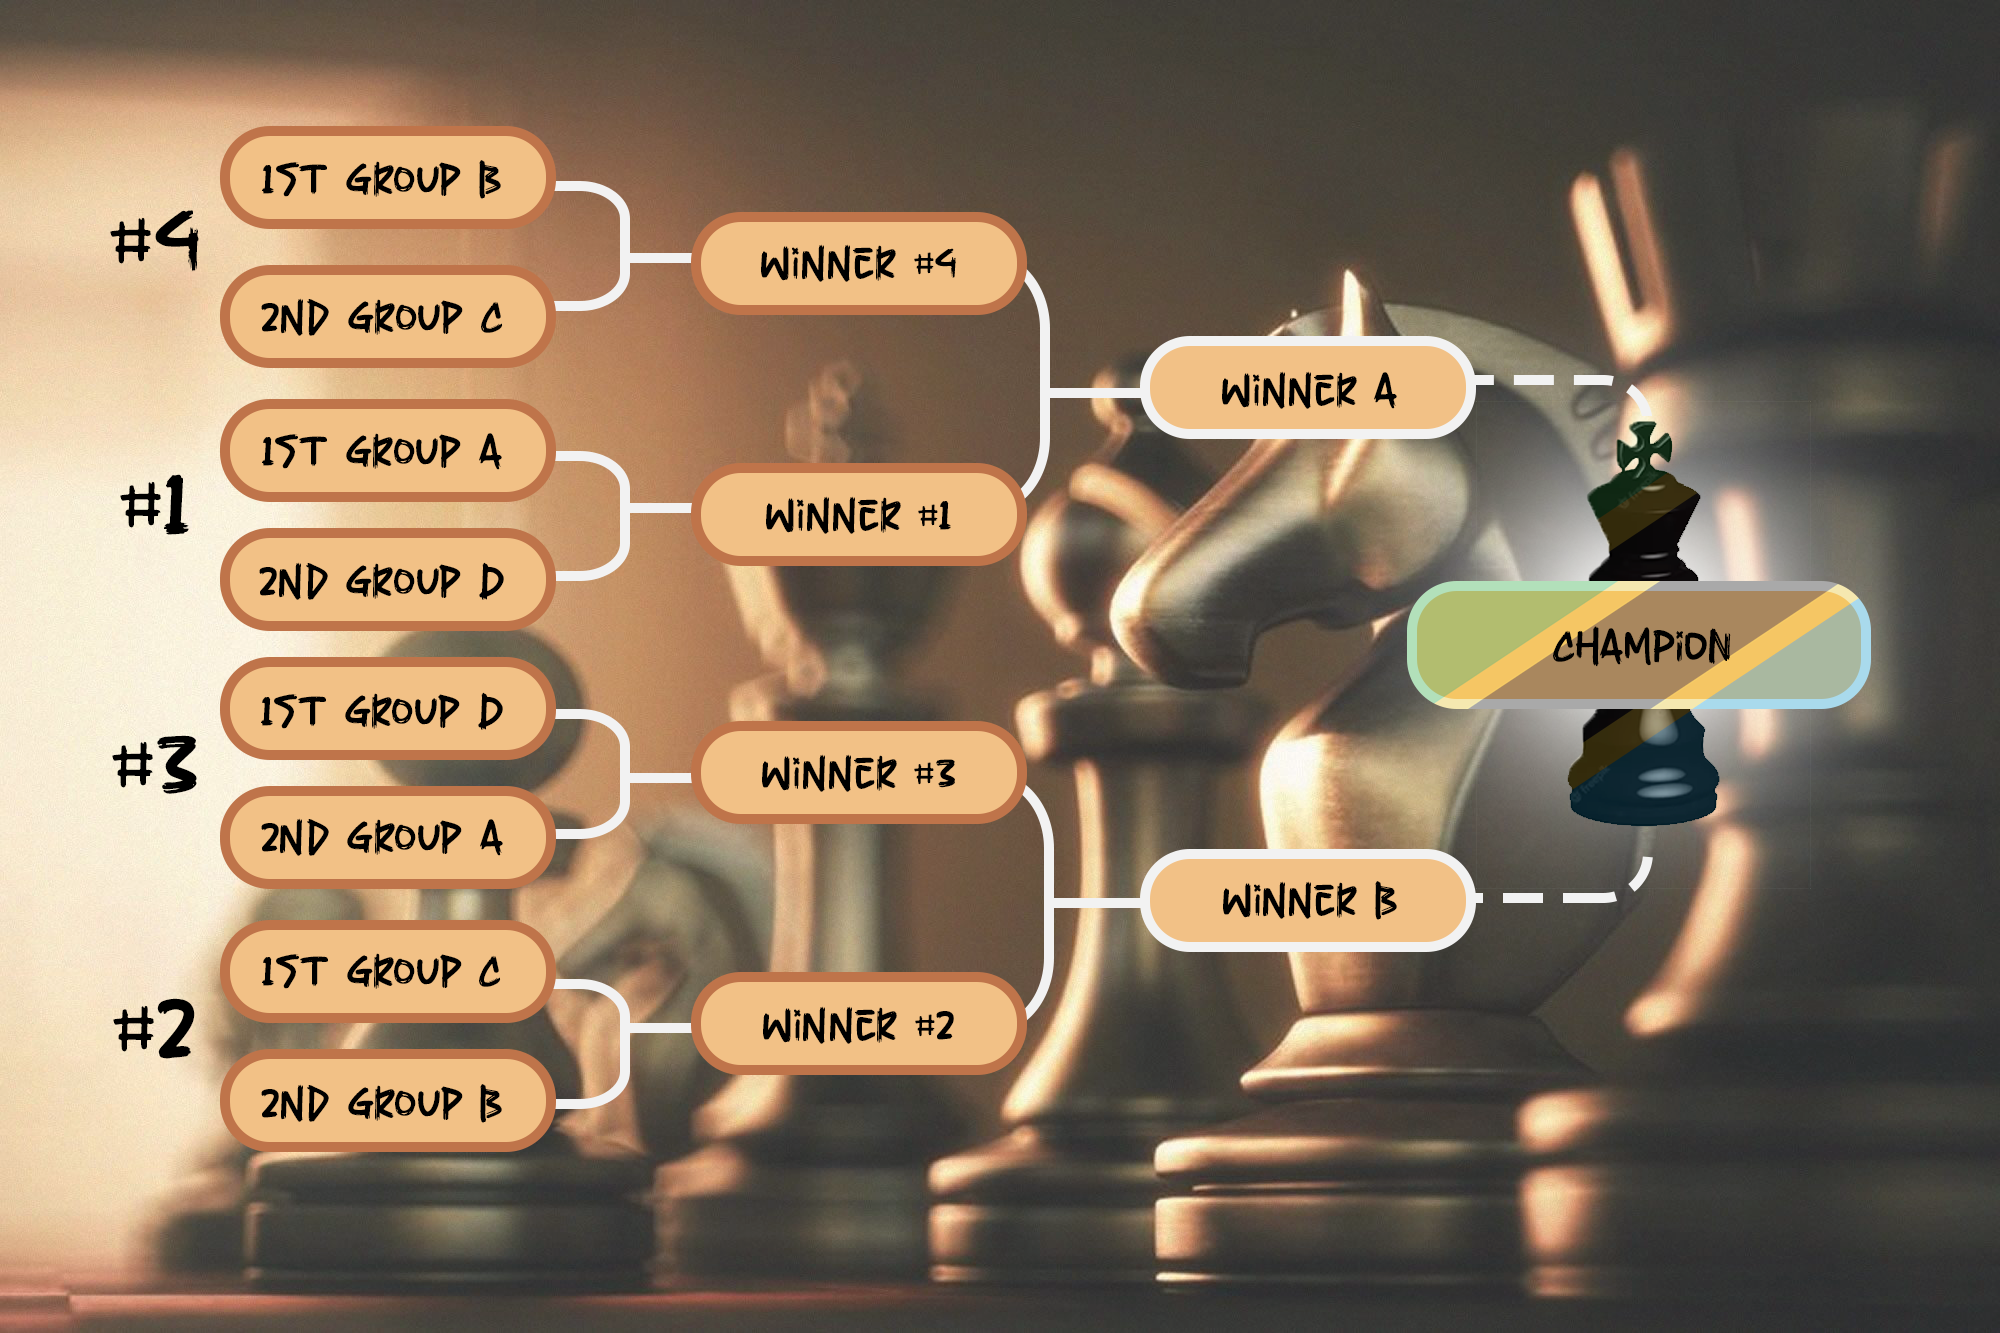
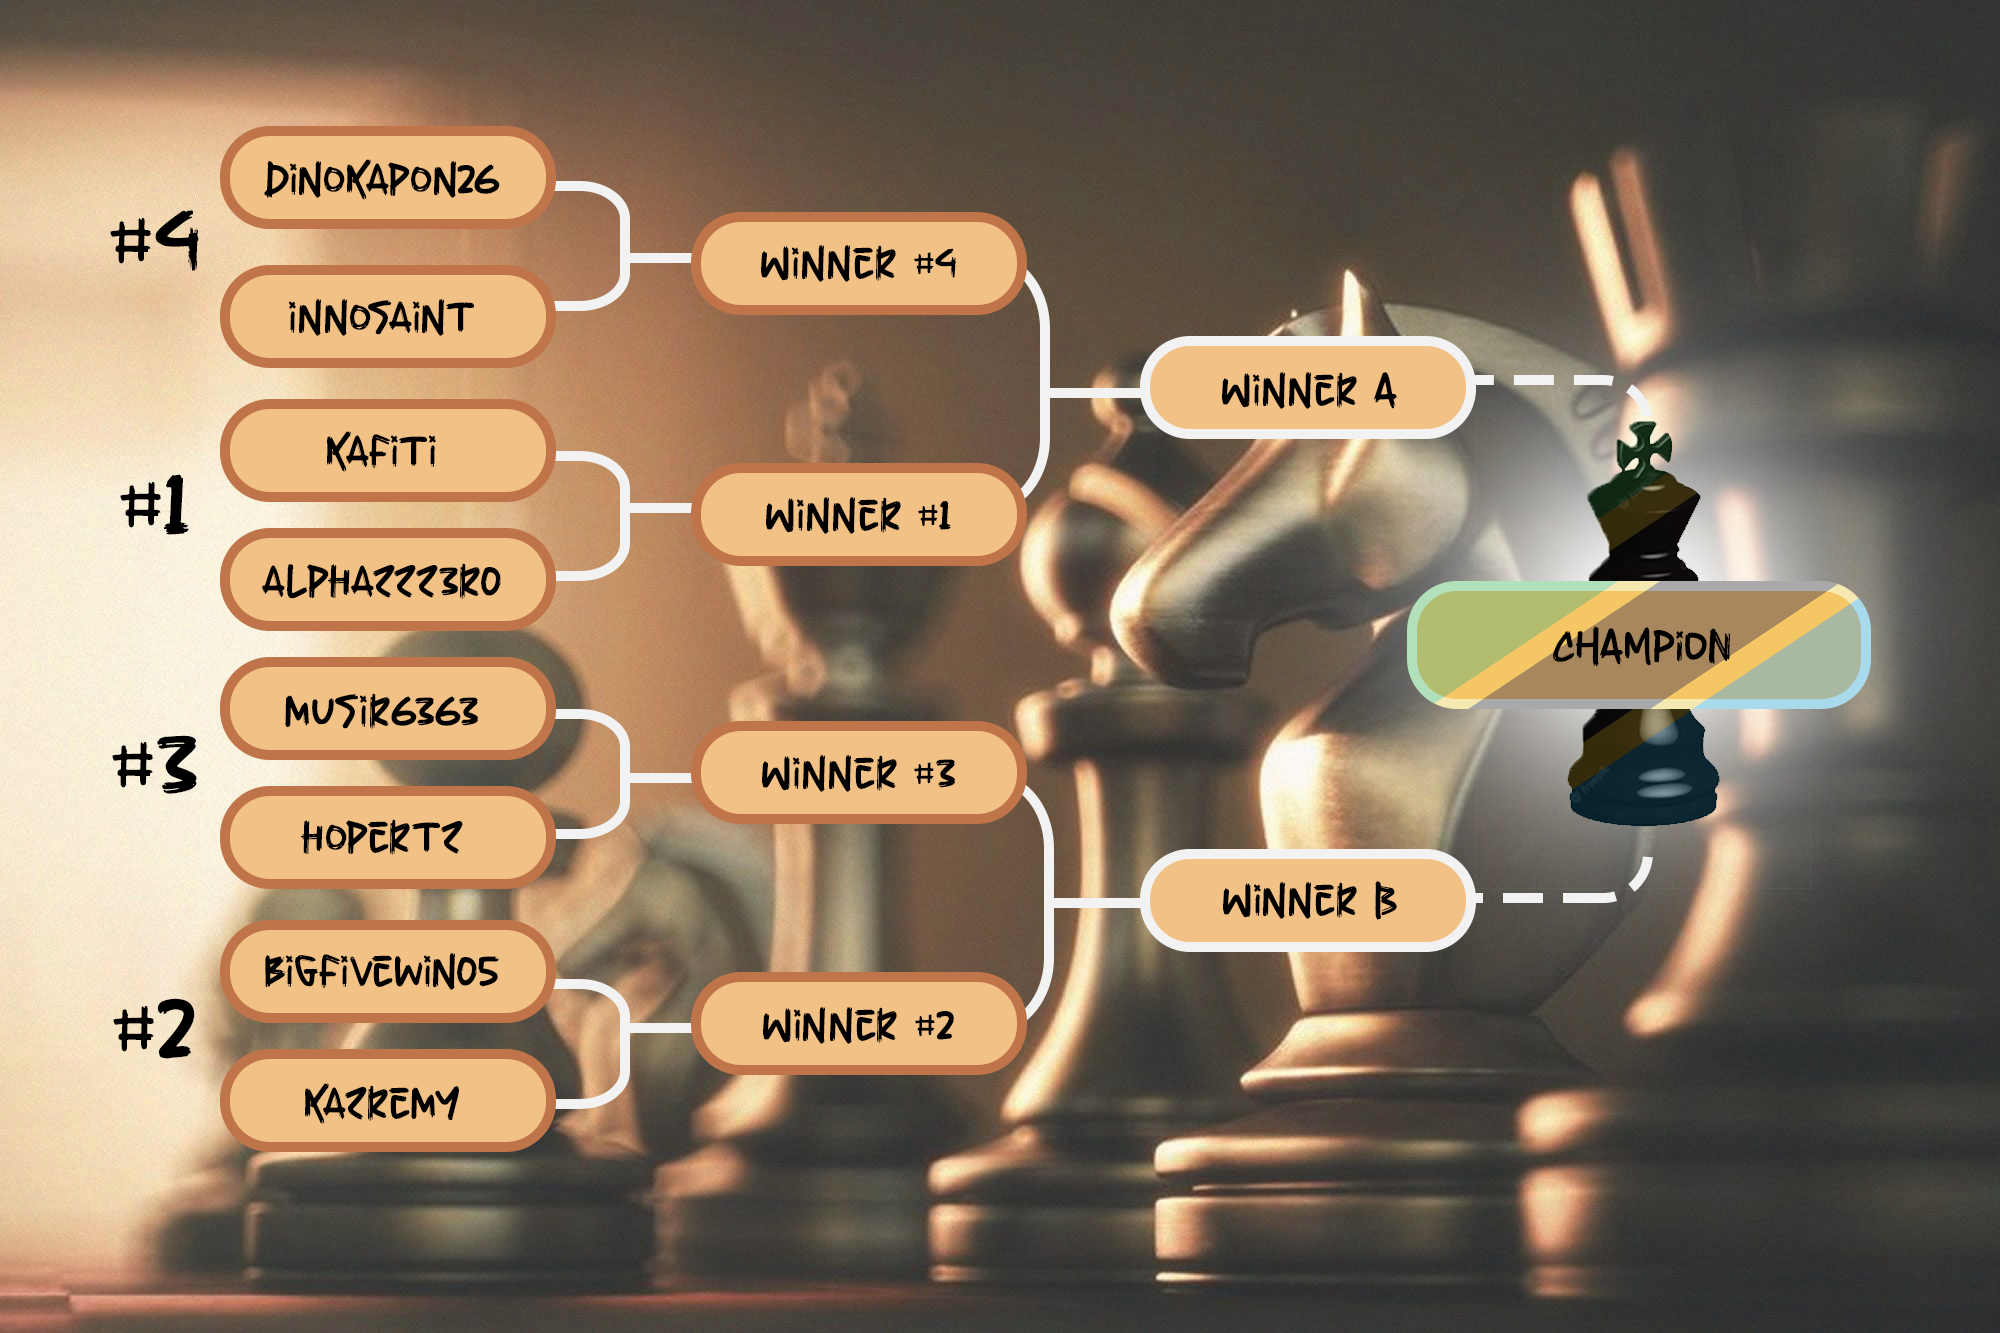
Update meta tag content

diff --git a/src/components/league/Table.jsx b/src/components/league/Table.jsx
@@ -21,41 +21,41 @@ const Table = () => {
                             <li class="table-row1">
                                 <div class="col col-1">1.</div>
                                 <div class="col col-2">kafiti</div>
-                                <div class="col col-3">5</div>
-                                <div class="col col-4">5</div>
+                                <div class="col col-3">6</div>
+                                <div class="col col-4">6</div>
                                 <div class="col col-5">0</div>
                                 <div class="col col-6">0</div>
-                                <div class="col col-7">10</div>
+                                <div class="col col-7">12</div>
                             </li>
 
                             <li class="table-row1">
                                 <div class="col col-1">2.</div>
                                 <div class="col col-2">hopertz</div>
-                                <div class="col col-3">5</div>
+                                <div class="col col-3">6</div>
                                 <div class="col col-4">3</div>
                                 <div class="col col-5">0</div>
-                                <div class="col col-6">2</div>
+                                <div class="col col-6">3</div>
                                 <div class="col col-7">6</div>
                             </li>
 
                             <li class="table-row">
                                 <div class="col col-1">3.</div>
                                 <div class="col col-2">tanzania-student</div>
-                                <div class="col col-3">5</div>
+                                <div class="col col-3">6</div>
                                 <div class="col col-4">1</div>
                                 <div class="col col-5">0</div>
-                                <div class="col col-6">4</div>
+                                <div class="col col-6">5</div>
                                 <div class="col col-7">2</div>
                             </li>
 
                             <li class="table-row">
                                 <div class="col col-1">4.</div>
                                 <div class="col col-2">klaus_gudy</div>
-                                <div class="col col-3">5</div>
-                                <div class="col col-4">0</div>
+                                <div class="col col-3">6</div>
+                                <div class="col col-4">1</div>
                                 <div class="col col-5">0</div>
                                 <div class="col col-6">5</div>
-                                <div class="col col-7">0</div>
+                                <div class="col col-7">2</div>
                             </li>
                         </ul>
 
@@ -74,40 +74,40 @@ const Table = () => {
                             <li class="table-row1">
                                 <div class="col col-1">1.</div>
                                 <div class="col col-2">dinokapon26</div>
-                                <div class="col col-3">5</div>
-                                <div class="col col-4">4</div>
+                                <div class="col col-3">6</div>
+                                <div class="col col-4">5</div>
                                 <div class="col col-5">0</div>
                                 <div class="col col-6">1</div>
-                                <div class="col col-7">8</div>
-                            </li>
-
-                            <li class="table-row1">
-                                <div class="col col-1">2.</div>
-                                <div class="col col-2">no_mane</div>
-                                <div class="col col-3">5</div>
-                                <div class="col col-4">3</div>
-                                <div class="col col-5">0</div>
-                                <div class="col col-6">2</div>
-                                <div class="col col-7">6</div>
+                                <div class="col col-7">10</div>
                             </li>
 
                             <li class="table-row">
-                                <div class="col col-1">3.</div>
+                                <div class="col col-1">2.</div>
                                 <div class="col col-2">kazremy</div>
-                                <div class="col col-3">5</div>
-                                <div class="col col-4">2</div>
+                                <div class="col col-3">6</div>
+                                <div class="col col-4">3</div>
                                 <div class="col col-5">1</div>
                                 <div class="col col-6">2</div>
-                                <div class="col col-7">5</div>
+                                <div class="col col-7">7</div>
+                            </li>
+
+                            <li class="table-row1">
+                                <div class="col col-1">3.</div>
+                                <div class="col col-2">no_mane</div>
+                                <div class="col col-3">6</div>
+                                <div class="col col-4">3</div>
+                                <div class="col col-5">0</div>
+                                <div class="col col-6">3</div>
+                                <div class="col col-7">6</div>
                             </li>
 
                             <li class="table-row">
                                 <div class="col col-1">4.</div>
                                 <div class="col col-2">onesmo</div>
-                                <div class="col col-3">5</div>
+                                <div class="col col-3">6</div>
                                 <div class="col col-4">0</div>
                                 <div class="col col-5">1</div>
-                                <div class="col col-6">4</div>
+                                <div class="col col-6">5</div>
                                 <div class="col col-7">1</div>
                             </li>
                         </ul>
@@ -127,40 +127,40 @@ const Table = () => {
                             <li class="table-row1">
                                 <div class="col col-1">1.</div>
                                 <div class="col col-2">bigfivewin05</div>
-                                <div class="col col-3">5</div>
-                                <div class="col col-4">4</div>
+                                <div class="col col-3">6</div>
+                                <div class="col col-4">5</div>
                                 <div class="col col-5">0</div>
                                 <div class="col col-6">1</div>
-                                <div class="col col-7">8</div>
+                                <div class="col col-7">10</div>
                             </li>
 
                             <li class="table-row1">
                                 <div class="col col-1">1.</div>
                                 <div class="col col-2">innosaint</div>
-                                <div class="col col-3">5</div>
-                                <div class="col col-4">4</div>
+                                <div class="col col-3">6</div>
+                                <div class="col col-4">5</div>
                                 <div class="col col-5">0</div>
                                 <div class="col col-6">1</div>
-                                <div class="col col-7">8</div>
+                                <div class="col col-7">10</div>
                             </li>
 
                             <li class="table-row">
                                 <div class="col col-1">3.</div>
                                 <div class="col col-2">arnie_n</div>
-                                <div class="col col-3">5</div>
+                                <div class="col col-3">6</div>
                                 <div class="col col-4">1</div>
                                 <div class="col col-5">0</div>
-                                <div class="col col-6">4</div>
+                                <div class="col col-6">5</div>
                                 <div class="col col-7">2</div>
                             </li>
 
                             <li class="table-row">
                                 <div class="col col-1">4.</div>
                                 <div class="col col-2">andre_beatz</div>
-                                <div class="col col-3">5</div>
+                                <div class="col col-3">6</div>
                                 <div class="col col-4">0</div>
                                 <div class="col col-5">0</div>
-                                <div class="col col-6">5</div>
+                                <div class="col col-6">6</div>
                                 <div class="col col-7">0</div>
                             </li>
                         </ul>
@@ -179,31 +179,31 @@ const Table = () => {
 
                             <li class="table-row1">
                                 <div class="col col-1">1.</div>
-                                <div class="col col-2">alphazzz3r0</div>
-                                <div class="col col-3">5</div>
-                                <div class="col col-4">4</div>
+                                <div class="col col-2">musir6363</div>
+                                <div class="col col-3">6</div>
+                                <div class="col col-4">5</div>
                                 <div class="col col-5">0</div>
                                 <div class="col col-6">1</div>
-                                <div class="col col-7">8</div>
+                                <div class="col col-7">10</div>
                             </li>
 
                             <li class="table-row1">
                                 <div class="col col-1">1.</div>
-                                <div class="col col-2">musir6363</div>
-                                <div class="col col-3">5</div>
-                                <div class="col col-4">4</div>
+                                <div class="col col-2">alphazzz3r0</div>
+                                <div class="col col-3">6</div>
+                                <div class="col col-4">5</div>
                                 <div class="col col-5">0</div>
                                 <div class="col col-6">1</div>
-                                <div class="col col-7">8</div>
+                                <div class="col col-7">10</div>
                             </li>
 
                             <li class="table-row">
                                 <div class="col col-1">3.</div>
                                 <div class="col col-2">hermamtm</div>
-                                <div class="col col-3">5</div>
+                                <div class="col col-3">6</div>
                                 <div class="col col-4">2</div>
                                 <div class="col col-5">0</div>
-                                <div class="col col-6">3</div>
+                                <div class="col col-6">4</div>
                                 <div class="col col-7">4</div>
                             </li>
 

diff --git a/src/components/match/Match.jsx b/src/components/match/Match.jsx
@@ -1,14 +1,14 @@
 import React from "react";
 import './match.css';
-/*import Bracket from '../../assets/Bracket.png';*/
+import Bracket from '../../assets/Bracket.png';
 
 const Match = () => {
     return (
         <section className="match section" id="match">
             <h2 className="section__title">Matches</h2>
-            <span className="section__subtitle">Game schedule</span>
+            <span className="section__subtitle">Playoff</span>
 
-            <div className="match__container container grid">
+            {/*<div className="match__container container grid">
                 <div className="match__content 1">
                     <h3 className="match__title">Round 1</h3>
                     <h3 className="match__title">(20 - 22 March)</h3>
@@ -211,9 +211,9 @@ const Match = () => {
                             </div>
                         </div>
                     </div>
-                </div>
-            </div>
-            {/*<img src={Bracket} className="br" />*/}
+                </div></div>*/}
+            
+            <img src={Bracket} className="br" />
         </section>
     );
 };

diff --git a/src/components/match/match.css b/src/components/match/match.css
@@ -50,14 +50,14 @@
     font-size: var(--tiny-font-size);
 }
 
-/*.br {
+.br {
     border-radius: 10px;
     max-width: 73%;
     height: auto;
     display: block;
     margin-left: auto;
     margin-right: auto;
-}*/
+}
 
 /*============== BREAKPOINTS =============*/
 /* For large devices */
@@ -67,14 +67,14 @@
         row-gap: 1rem;
     }
 
-    /*.br {
+    .br {
         border-radius: 10px;
         max-width: 90%;
         height: auto;
         display: block;
         margin-left: auto;
         margin-right: auto;
-    }*/
+    }
 }
 
 /* For medium devices */
